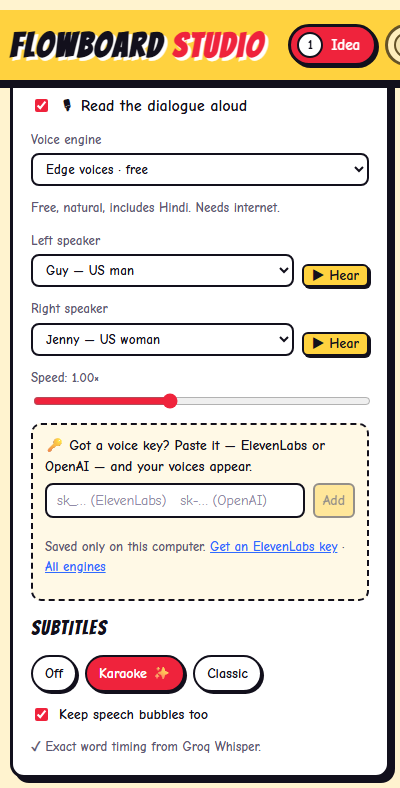
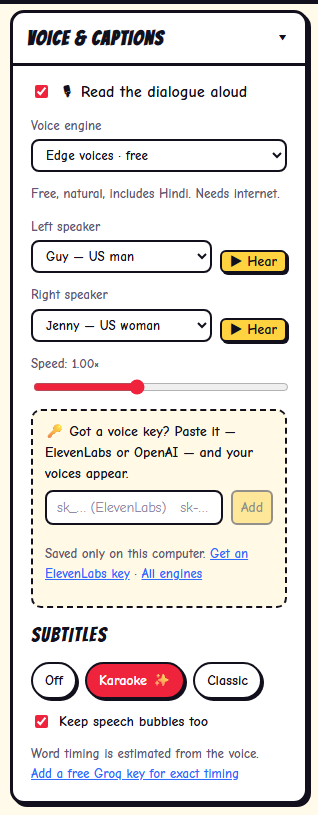
Update README for the new layout; refresh screenshots

diff --git a/README.md b/README.md
@@ -8,7 +8,7 @@
 <p align="center"><i>Made by <b>Ayush</b></i></p>
 
 <p align="center">
-  <img src="docs/screenshots/studio-home.png" alt="Flow Studio home with story templates" width="860"/>
+  <img src="docs/screenshots/studio-home.png" alt="Flow Studio: settings on the left, prompt and templates in the middle" width="860"/>
 </p>
 
 ---
@@ -22,18 +22,24 @@
 
 Everything above is produced by the app itself: the pictures come from Google Flow, and the bubbles, captions, voices and video are put together by Flow Studio.
 
-![The ten panels of a generated story](docs/screenshots/panels.jpg)
+![Template covers, all drawn with Flow Studio's own prompts](docs/screenshots/templates.jpg)
+
+*Every template and art style in Studio shows a real sample picture, so you can tell stickman, comic, anime and watercolor apart at a glance.*
 
 ## Features
 
 ### 🎬 Studio — idea to video in four steps
-- **Templates** for instant starts (zombie eclipse, pizza heist, space camping, hero origin, and more).
+- **One-screen studio layout, with no page scrolling:** settings on the left (art style, mood, shape, voice, subtitles), your work in the middle, properties on the right, and one bottom bar for drawing and exporting. On a small screen it becomes a normal scrolling page with the prompt first.
+- **Type or pick:** a prompt box at the top of the home screen, with ✨ Improve and 🎲 Surprise me, and compact template cards below it. **＋ New story** takes you back from the editor.
+- **Templates by category** (Comedy, Action, Sci-Fi & Fantasy, Spooky & Mystery, Wholesome) with real cover pictures, for instant starts.
+- **Full-frame pictures:** no blank boxes. The script only asks for calm space at the top of a panel when its dialogue is long, and you can switch that per panel.
+- **Picture backup:** if Google Flow's daily limit is reached, the other Flow models are tried, then your own OpenRouter or OpenAI key (uses your credits).
 - **AI helpers:** write a whole script from one line, ✨ improve your idea, 🎲 get surprise ideas, and ✨ punch up any scene or line of dialogue.
 - **Visual editor:** a filmstrip, a live preview, and speech bubbles you drag, resize and aim. Undo/redo with <kbd>Ctrl</kbd>+<kbd>Z</kbd> / <kbd>Ctrl</kbd>+<kbd>Y</kbd>.
 - **Video shapes:** 16:9, 9:16 and 1:1.
 - **Voiceover:** free Edge voices (including Hindi) and Windows voices out of the box. Paste an ElevenLabs or OpenAI key and its voices appear automatically.
 - **Karaoke subtitles:** the word being spoken lights up. Timing is estimated for free, or exact with a Groq/OpenAI Whisper key.
-- **MP4 export** with bubbles, captions, sound effects, slow zoom and fades.
+- **MP4 export** with bubbles, captions, sound effects, slow zoom and fades. The finished video opens in a popup with a download button.
 
 ![Voice and captions panel](docs/screenshots/studio-voice.png)
 
@@ -42,7 +48,7 @@ Character, Image, Video, Prompt, Storyboard and Note nodes you connect into a pi
 - Delete, duplicate, fold and colour-label nodes, with **Undo** after deleting.
 - **Arrange**, **Fit**, **Clean** (remove empty nodes) and one-click **Recipes** (Hero shot, Prompt to picture, Storyboard film, Duo scene).
 - Right-click menu, and new nodes never land on top of each other.
-- A chat dock where you describe what you want and an AI agent builds the board for you.
+- A chat dock where you describe what you want and an AI agent builds the board for you. It sees what every node holds, uses the nodes you have **selected** (or whose `#id` you click), reuses your pictures instead of guessing, and stops after one result per request so it can never loop and burn credits.
 
 ![Canvas with connected nodes](docs/screenshots/canvas.png)
 
